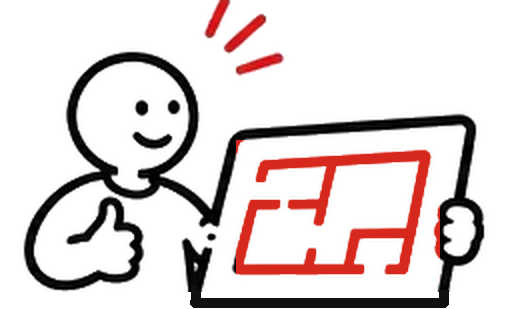
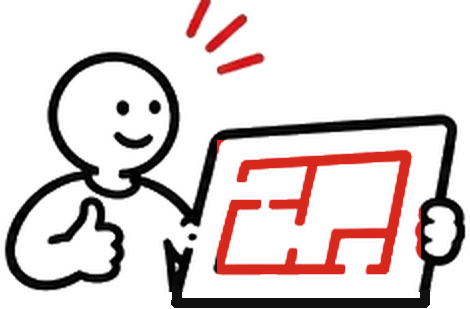
Draft: figures flush left, equal heads, common baseline
Claude-Session: https://claude.ai/code/session_01EwRfVRwqpTJVtze869hkia

diff --git a/services/apartment-design/index.html b/services/apartment-design/index.html
@@ -55,9 +55,9 @@
   <div class="section-head"><p class="label"><span>Что вы получаете</span><span class="muted">Квартиры и апартаменты</span></p></div>
   <div class="grid">
     <h2 class="s-12">Идея, картинка или инструкция</h2>
-    <div class="s-4 gains pkg-card"><figure class="pkg-ill"><img src="../../assets/img/pkg/fig-idea.png" alt="" width="199" height="121" style="width:199px"></figure><h3 class="pkg-name">Идея</h3><p class="pkg-subt">Рисуем, как вы будете жить</p><p class="label pkg-meta">Простой · от 9,6 $/м² · от 1 до 2 недель</p><p class="pkg-count">Чтобы понять, как будет устроено ваше пространство</p><p class="pkg-tag">Минимальный набор</p><ul class="pkg-matrix"><li class="pkg-m"><img src="../../assets/img/pkg/i-plan.svg" alt="" width="34" height="34"><span>Планировка</span></li><li class="pkg-m"><img src="../../assets/img/pkg/i-ai.svg" alt="" width="34" height="34"><span>AI-эскиз</span></li><li class="pkg-m off"><img src="../../assets/img/pkg/i-3d.svg" alt="" width="34" height="34"><span>3D</span></li><li class="pkg-m off"><img src="../../assets/img/pkg/i-elev.svg" alt="" width="34" height="34"><span>Развёртки</span></li><li class="pkg-m off"><img src="../../assets/img/pkg/i-finish.svg" alt="" width="34" height="34"><span>Отделка</span></li><li class="pkg-m off"><img src="../../assets/img/pkg/i-elec.svg" alt="" width="34" height="34"><span>Электрика</span></li><li class="pkg-m off"><img src="../../assets/img/pkg/i-plumb.svg" alt="" width="34" height="34"><span>Сантехника</span></li><li class="pkg-m off"><img src="../../assets/img/pkg/i-furn.svg" alt="" width="34" height="34"><span>Подбор мебели</span></li></ul><ul class="pkg-list"><li>Обмерный план по вашим замерам или плану БТИ</li><li>До 2 вариантов планировочного решения с расстановкой мебели</li><li>AI-эскизы каждого помещения для поиска стиля и атмосферы</li><li>До 3 раундов правок</li></ul><p class="pkg-note muted">Подвинуть шкаф на полметра считается правкой, а не новой планировкой. Шкафы мы двигаем с удовольствием.</p><p class="pkg-btn"><a class="btn" href="../../index.html?pkg=Идея#brief" data-pkg="Идея">Выбрать «Идея» →</a></p></div>
-    <div class="s-4 gains pkg-card gains--featured" data-badge="Популярный"><figure class="pkg-ill"><img src="../../assets/img/pkg/fig-picture.png" alt="" width="231" height="116" style="width:231px"></figure><h3 class="pkg-name">Картинка</h3><p class="pkg-subt">Смотрим, как это будет выглядеть</p><p class="label pkg-meta">Базовый · от 14,7 $/м² · от 2 до 3 недель</p><p class="pkg-count"><b>От 15 листов,</b><br>чтобы увидеть будущий интерьер</p><p class="pkg-tag">Базовый комплект чертежей без инженерии</p><ul class="pkg-matrix"><li class="pkg-m"><img src="../../assets/img/pkg/i-plan.svg" alt="" width="34" height="34"><span>Планировка</span></li><li class="pkg-m"><img src="../../assets/img/pkg/i-ai.svg" alt="" width="34" height="34"><span>AI-эскиз</span></li><li class="pkg-m"><img src="../../assets/img/pkg/i-3d.svg" alt="" width="34" height="34"><span>3D</span></li><li class="pkg-m"><img src="../../assets/img/pkg/i-elev.svg" alt="" width="34" height="34"><span>Развёртки</span></li><li class="pkg-m off"><img src="../../assets/img/pkg/i-finish.svg" alt="" width="34" height="34"><span>Отделка</span></li><li class="pkg-m off"><img src="../../assets/img/pkg/i-elec.svg" alt="" width="34" height="34"><span>Электрика</span></li><li class="pkg-m off"><img src="../../assets/img/pkg/i-plumb.svg" alt="" width="34" height="34"><span>Сантехника</span></li><li class="pkg-m off"><img src="../../assets/img/pkg/i-furn.svg" alt="" width="34" height="34"><span>Подбор мебели</span></li></ul><ul class="pkg-list"><li>Всё, что входит в «Идею»</li><li>До 3 вариантов планировочного решения с расстановкой мебели</li><li>1 концепция интерьера</li><li>3D-визуализации всех помещений, по 2 ракурса на каждое</li><li>Развёртки стен без инженерных схем</li><li>До 3 раундов правок</li></ul><p class="pkg-btn"><a class="btn btn--signal" href="../../index.html?pkg=Картинка#brief" data-pkg="Картинка">Выбрать «Картинка» →</a></p></div>
-    <div class="s-4 gains pkg-card"><figure class="pkg-ill"><img src="../../assets/img/pkg/fig-instructions.png" alt="" width="299" height="113" style="width:299px"></figure><h3 class="pkg-name">Инструкция</h3><p class="pkg-subt">Передаём всё необходимое для реализации</p><p class="label pkg-meta">Полный · от 19,3 $/м² · от 4 до 5 недель</p><p class="pkg-count"><b>От 27 листов,</b><br>чтобы строить без догадок</p><p class="pkg-tag">Полный комплект документации для реализации</p><ul class="pkg-matrix"><li class="pkg-m"><img src="../../assets/img/pkg/i-plan.svg" alt="" width="34" height="34"><span>Планировка</span></li><li class="pkg-m"><img src="../../assets/img/pkg/i-ai.svg" alt="" width="34" height="34"><span>AI-эскиз</span></li><li class="pkg-m"><img src="../../assets/img/pkg/i-3d.svg" alt="" width="34" height="34"><span>3D</span></li><li class="pkg-m"><img src="../../assets/img/pkg/i-elev.svg" alt="" width="34" height="34"><span>Развёртки</span></li><li class="pkg-m"><img src="../../assets/img/pkg/i-finish.svg" alt="" width="34" height="34"><span>Отделка</span></li><li class="pkg-m"><img src="../../assets/img/pkg/i-elec.svg" alt="" width="34" height="34"><span>Электрика</span></li><li class="pkg-m"><img src="../../assets/img/pkg/i-plumb.svg" alt="" width="34" height="34"><span>Сантехника</span></li><li class="pkg-m"><img src="../../assets/img/pkg/i-furn.svg" alt="" width="34" height="34"><span>Подбор мебели</span></li></ul><ul class="pkg-list"><li>Всё, что входит в «Картинку»</li><li>До 5 вариантов планировочного решения</li><li>2 концепции интерьера</li><li>По 3 или 4 ракурса каждого помещения и панорамы 360°</li><li>Развёртки стен с привязками инженерии</li><li>Отделка, электрика, тёплый пол и сантехника</li><li>Ведомости дверных проёмов и лючков, разрез</li><li>Подбор материалов и мебели со спецификацией</li><li>До 5 раундов правок</li></ul><p class="pkg-note muted">Хотите больше вариантов? Сделаю их дополнительно, стоимость обсудим.</p><p class="pkg-btn"><a class="btn" href="../../index.html?pkg=Инструкция#brief" data-pkg="Инструкция">Выбрать «Инструкция» →</a></p></div>
+    <div class="s-4 gains pkg-card"><figure class="pkg-ill"><img src="../../assets/img/pkg/fig-idea.png" alt="" width="183" height="121" style="width:183px"></figure><h3 class="pkg-name">Идея</h3><p class="pkg-subt">Рисуем, как вы будете жить</p><p class="label pkg-meta">Простой · от 9,6 $/м² · от 1 до 2 недель</p><p class="pkg-count">Чтобы понять, как будет устроено ваше пространство</p><p class="pkg-tag">Минимальный набор</p><ul class="pkg-matrix"><li class="pkg-m"><img src="../../assets/img/pkg/i-plan.svg" alt="" width="34" height="34"><span>Планировка</span></li><li class="pkg-m"><img src="../../assets/img/pkg/i-ai.svg" alt="" width="34" height="34"><span>AI-эскиз</span></li><li class="pkg-m off"><img src="../../assets/img/pkg/i-3d.svg" alt="" width="34" height="34"><span>3D</span></li><li class="pkg-m off"><img src="../../assets/img/pkg/i-elev.svg" alt="" width="34" height="34"><span>Развёртки</span></li><li class="pkg-m off"><img src="../../assets/img/pkg/i-finish.svg" alt="" width="34" height="34"><span>Отделка</span></li><li class="pkg-m off"><img src="../../assets/img/pkg/i-elec.svg" alt="" width="34" height="34"><span>Электрика</span></li><li class="pkg-m off"><img src="../../assets/img/pkg/i-plumb.svg" alt="" width="34" height="34"><span>Сантехника</span></li><li class="pkg-m off"><img src="../../assets/img/pkg/i-furn.svg" alt="" width="34" height="34"><span>Подбор мебели</span></li></ul><ul class="pkg-list"><li>Обмерный план по вашим замерам или плану БТИ</li><li>До 2 вариантов планировочного решения с расстановкой мебели</li><li>AI-эскизы каждого помещения для поиска стиля и атмосферы</li><li>До 3 раундов правок</li></ul><p class="pkg-note muted">Подвинуть шкаф на полметра считается правкой, а не новой планировкой. Шкафы мы двигаем с удовольствием.</p><p class="pkg-btn"><a class="btn" href="../../index.html?pkg=Идея#brief" data-pkg="Идея">Выбрать «Идея» →</a></p></div>
+    <div class="s-4 gains pkg-card gains--featured" data-badge="Популярный"><figure class="pkg-ill"><img src="../../assets/img/pkg/fig-picture.png" alt="" width="225" height="116" style="width:225px"></figure><h3 class="pkg-name">Картинка</h3><p class="pkg-subt">Смотрим, как это будет выглядеть</p><p class="label pkg-meta">Базовый · от 14,7 $/м² · от 2 до 3 недель</p><p class="pkg-count"><b>От 15 листов,</b><br>чтобы увидеть будущий интерьер</p><p class="pkg-tag">Базовый комплект чертежей без инженерии</p><ul class="pkg-matrix"><li class="pkg-m"><img src="../../assets/img/pkg/i-plan.svg" alt="" width="34" height="34"><span>Планировка</span></li><li class="pkg-m"><img src="../../assets/img/pkg/i-ai.svg" alt="" width="34" height="34"><span>AI-эскиз</span></li><li class="pkg-m"><img src="../../assets/img/pkg/i-3d.svg" alt="" width="34" height="34"><span>3D</span></li><li class="pkg-m"><img src="../../assets/img/pkg/i-elev.svg" alt="" width="34" height="34"><span>Развёртки</span></li><li class="pkg-m off"><img src="../../assets/img/pkg/i-finish.svg" alt="" width="34" height="34"><span>Отделка</span></li><li class="pkg-m off"><img src="../../assets/img/pkg/i-elec.svg" alt="" width="34" height="34"><span>Электрика</span></li><li class="pkg-m off"><img src="../../assets/img/pkg/i-plumb.svg" alt="" width="34" height="34"><span>Сантехника</span></li><li class="pkg-m off"><img src="../../assets/img/pkg/i-furn.svg" alt="" width="34" height="34"><span>Подбор мебели</span></li></ul><ul class="pkg-list"><li>Всё, что входит в «Идею»</li><li>До 3 вариантов планировочного решения с расстановкой мебели</li><li>1 концепция интерьера</li><li>3D-визуализации всех помещений, по 2 ракурса на каждое</li><li>Развёртки стен без инженерных схем</li><li>До 3 раундов правок</li></ul><p class="pkg-btn"><a class="btn btn--signal" href="../../index.html?pkg=Картинка#brief" data-pkg="Картинка">Выбрать «Картинка» →</a></p></div>
+    <div class="s-4 gains pkg-card"><figure class="pkg-ill"><img src="../../assets/img/pkg/fig-instructions.png" alt="" width="329" height="124" style="width:329px"></figure><h3 class="pkg-name">Инструкция</h3><p class="pkg-subt">Передаём всё необходимое для реализации</p><p class="label pkg-meta">Полный · от 19,3 $/м² · от 4 до 5 недель</p><p class="pkg-count"><b>От 27 листов,</b><br>чтобы строить без догадок</p><p class="pkg-tag">Полный комплект документации для реализации</p><ul class="pkg-matrix"><li class="pkg-m"><img src="../../assets/img/pkg/i-plan.svg" alt="" width="34" height="34"><span>Планировка</span></li><li class="pkg-m"><img src="../../assets/img/pkg/i-ai.svg" alt="" width="34" height="34"><span>AI-эскиз</span></li><li class="pkg-m"><img src="../../assets/img/pkg/i-3d.svg" alt="" width="34" height="34"><span>3D</span></li><li class="pkg-m"><img src="../../assets/img/pkg/i-elev.svg" alt="" width="34" height="34"><span>Развёртки</span></li><li class="pkg-m"><img src="../../assets/img/pkg/i-finish.svg" alt="" width="34" height="34"><span>Отделка</span></li><li class="pkg-m"><img src="../../assets/img/pkg/i-elec.svg" alt="" width="34" height="34"><span>Электрика</span></li><li class="pkg-m"><img src="../../assets/img/pkg/i-plumb.svg" alt="" width="34" height="34"><span>Сантехника</span></li><li class="pkg-m"><img src="../../assets/img/pkg/i-furn.svg" alt="" width="34" height="34"><span>Подбор мебели</span></li></ul><ul class="pkg-list"><li>Всё, что входит в «Картинку»</li><li>До 5 вариантов планировочного решения</li><li>2 концепции интерьера</li><li>По 3 или 4 ракурса каждого помещения и панорамы 360°</li><li>Развёртки стен с привязками инженерии</li><li>Отделка, электрика, тёплый пол и сантехника</li><li>Ведомости дверных проёмов и лючков, разрез</li><li>Подбор материалов и мебели со спецификацией</li><li>До 5 раундов правок</li></ul><p class="pkg-note muted">Хотите больше вариантов? Сделаю их дополнительно, стоимость обсудим.</p><p class="pkg-btn"><a class="btn" href="../../index.html?pkg=Инструкция#brief" data-pkg="Инструкция">Выбрать «Инструкция» →</a></p></div>
     <p class="s-12 muted">Цена ниже рынка, потому что рутину считает BIM-модель, а не человек. Все листы собираются из одной модели, поэтому размеры сходятся.</p>
     <div class="s-12 pkg-wrap"><p class="label">Что входит в каждый пакет</p><table class="pkg">
 <thead><tr><th>Блок работ</th><th class="c">Идея<small>простой</small></th><th class="c f">Картинка<small>базовый</small></th><th class="c">Инструкция<small>полный</small></th></tr></thead>

diff --git a/en/services/apartment-design/index.html b/en/services/apartment-design/index.html
@@ -55,9 +55,9 @@
   <div class="section-head"><p class="label"><span>What you get</span><span class="muted">Apartments</span></p></div>
   <div class="grid">
     <h2 class="s-12">Idea, Picture or Instructions</h2>
-    <div class="s-4 gains pkg-card"><figure class="pkg-ill"><img src="../../../assets/img/pkg/fig-idea.png" alt="" width="199" height="121" style="width:199px"></figure><h3 class="pkg-name">Idea</h3><p class="pkg-subt">We sketch how you will live</p><p class="label pkg-meta">Basic · from $9.6/m² · 1 to 2 weeks</p><p class="pkg-count">To understand how your space will work</p><p class="pkg-tag">Minimal set</p><ul class="pkg-matrix"><li class="pkg-m"><img src="../../../assets/img/pkg/i-plan.svg" alt="" width="34" height="34"><span>Layout</span></li><li class="pkg-m"><img src="../../../assets/img/pkg/i-ai.svg" alt="" width="34" height="34"><span>AI sketch</span></li><li class="pkg-m off"><img src="../../../assets/img/pkg/i-3d.svg" alt="" width="34" height="34"><span>3D</span></li><li class="pkg-m off"><img src="../../../assets/img/pkg/i-elev.svg" alt="" width="34" height="34"><span>Elevations</span></li><li class="pkg-m off"><img src="../../../assets/img/pkg/i-finish.svg" alt="" width="34" height="34"><span>Finishes</span></li><li class="pkg-m off"><img src="../../../assets/img/pkg/i-elec.svg" alt="" width="34" height="34"><span>Electrical</span></li><li class="pkg-m off"><img src="../../../assets/img/pkg/i-plumb.svg" alt="" width="34" height="34"><span>Plumbing</span></li><li class="pkg-m off"><img src="../../../assets/img/pkg/i-furn.svg" alt="" width="34" height="34"><span>Furniture</span></li></ul><ul class="pkg-list"><li>Measured plan from your measurements or the BTI plan</li><li>Up to 2 layout options with furniture arrangement</li><li>AI sketches of every room to find the style and mood</li><li>Up to 3 rounds of revisions</li></ul><p class="pkg-note muted">Moving a wardrobe half a metre is a revision, not a new layout. We are always happy to move wardrobes.</p><p class="pkg-btn"><a class="btn" href="../../index.html?pkg=Idea#brief" data-pkg="Idea">Choose Idea →</a></p></div>
-    <div class="s-4 gains pkg-card gains--featured" data-badge="Popular"><figure class="pkg-ill"><img src="../../../assets/img/pkg/fig-picture.png" alt="" width="231" height="116" style="width:231px"></figure><h3 class="pkg-name">Picture</h3><p class="pkg-subt">We see how it will look</p><p class="label pkg-meta">Standard · from $14.7/m² · 2 to 3 weeks</p><p class="pkg-count"><b>From 15 sheets,</b><br>to see your future interior</p><p class="pkg-tag">Basic drawing set without engineering</p><ul class="pkg-matrix"><li class="pkg-m"><img src="../../../assets/img/pkg/i-plan.svg" alt="" width="34" height="34"><span>Layout</span></li><li class="pkg-m"><img src="../../../assets/img/pkg/i-ai.svg" alt="" width="34" height="34"><span>AI sketch</span></li><li class="pkg-m"><img src="../../../assets/img/pkg/i-3d.svg" alt="" width="34" height="34"><span>3D</span></li><li class="pkg-m"><img src="../../../assets/img/pkg/i-elev.svg" alt="" width="34" height="34"><span>Elevations</span></li><li class="pkg-m off"><img src="../../../assets/img/pkg/i-finish.svg" alt="" width="34" height="34"><span>Finishes</span></li><li class="pkg-m off"><img src="../../../assets/img/pkg/i-elec.svg" alt="" width="34" height="34"><span>Electrical</span></li><li class="pkg-m off"><img src="../../../assets/img/pkg/i-plumb.svg" alt="" width="34" height="34"><span>Plumbing</span></li><li class="pkg-m off"><img src="../../../assets/img/pkg/i-furn.svg" alt="" width="34" height="34"><span>Furniture</span></li></ul><ul class="pkg-list"><li>Everything in Idea</li><li>Up to 3 layout options with furniture arrangement</li><li>1 interior concept</li><li>3D visualisations of every room, 2 views each</li><li>Wall elevations without engineering</li><li>Up to 3 rounds of revisions</li></ul><p class="pkg-btn"><a class="btn btn--signal" href="../../index.html?pkg=Picture#brief" data-pkg="Picture">Choose Picture →</a></p></div>
-    <div class="s-4 gains pkg-card"><figure class="pkg-ill"><img src="../../../assets/img/pkg/fig-instructions.png" alt="" width="299" height="113" style="width:299px"></figure><h3 class="pkg-name">Instructions</h3><p class="pkg-subt">We hand over everything needed to build</p><p class="label pkg-meta">Full · from $19.3/m² · 4 to 5 weeks</p><p class="pkg-count"><b>From 27 sheets,</b><br>to build without guesswork</p><p class="pkg-tag">Complete documentation for the build</p><ul class="pkg-matrix"><li class="pkg-m"><img src="../../../assets/img/pkg/i-plan.svg" alt="" width="34" height="34"><span>Layout</span></li><li class="pkg-m"><img src="../../../assets/img/pkg/i-ai.svg" alt="" width="34" height="34"><span>AI sketch</span></li><li class="pkg-m"><img src="../../../assets/img/pkg/i-3d.svg" alt="" width="34" height="34"><span>3D</span></li><li class="pkg-m"><img src="../../../assets/img/pkg/i-elev.svg" alt="" width="34" height="34"><span>Elevations</span></li><li class="pkg-m"><img src="../../../assets/img/pkg/i-finish.svg" alt="" width="34" height="34"><span>Finishes</span></li><li class="pkg-m"><img src="../../../assets/img/pkg/i-elec.svg" alt="" width="34" height="34"><span>Electrical</span></li><li class="pkg-m"><img src="../../../assets/img/pkg/i-plumb.svg" alt="" width="34" height="34"><span>Plumbing</span></li><li class="pkg-m"><img src="../../../assets/img/pkg/i-furn.svg" alt="" width="34" height="34"><span>Furniture</span></li></ul><ul class="pkg-list"><li>Everything in Picture</li><li>Up to 5 layout options</li><li>2 interior concepts</li><li>3 or 4 views of every room and 360° panoramas</li><li>Wall elevations with engineering setting-out</li><li>Finishes, electrical, underfloor heating and plumbing</li><li>Door opening and access hatch schedules, section</li><li>Selection of materials and furniture with a specification</li><li>Up to 5 rounds of revisions</li></ul><p class="pkg-note muted">Need more options? I will make them separately, we will agree on the cost.</p><p class="pkg-btn"><a class="btn" href="../../index.html?pkg=Instructions#brief" data-pkg="Instructions">Choose Instructions →</a></p></div>
+    <div class="s-4 gains pkg-card"><figure class="pkg-ill"><img src="../../../assets/img/pkg/fig-idea.png" alt="" width="183" height="121" style="width:183px"></figure><h3 class="pkg-name">Idea</h3><p class="pkg-subt">We sketch how you will live</p><p class="label pkg-meta">Basic · from $9.6/m² · 1 to 2 weeks</p><p class="pkg-count">To understand how your space will work</p><p class="pkg-tag">Minimal set</p><ul class="pkg-matrix"><li class="pkg-m"><img src="../../../assets/img/pkg/i-plan.svg" alt="" width="34" height="34"><span>Layout</span></li><li class="pkg-m"><img src="../../../assets/img/pkg/i-ai.svg" alt="" width="34" height="34"><span>AI sketch</span></li><li class="pkg-m off"><img src="../../../assets/img/pkg/i-3d.svg" alt="" width="34" height="34"><span>3D</span></li><li class="pkg-m off"><img src="../../../assets/img/pkg/i-elev.svg" alt="" width="34" height="34"><span>Elevations</span></li><li class="pkg-m off"><img src="../../../assets/img/pkg/i-finish.svg" alt="" width="34" height="34"><span>Finishes</span></li><li class="pkg-m off"><img src="../../../assets/img/pkg/i-elec.svg" alt="" width="34" height="34"><span>Electrical</span></li><li class="pkg-m off"><img src="../../../assets/img/pkg/i-plumb.svg" alt="" width="34" height="34"><span>Plumbing</span></li><li class="pkg-m off"><img src="../../../assets/img/pkg/i-furn.svg" alt="" width="34" height="34"><span>Furniture</span></li></ul><ul class="pkg-list"><li>Measured plan from your measurements or the BTI plan</li><li>Up to 2 layout options with furniture arrangement</li><li>AI sketches of every room to find the style and mood</li><li>Up to 3 rounds of revisions</li></ul><p class="pkg-note muted">Moving a wardrobe half a metre is a revision, not a new layout. We are always happy to move wardrobes.</p><p class="pkg-btn"><a class="btn" href="../../index.html?pkg=Idea#brief" data-pkg="Idea">Choose Idea →</a></p></div>
+    <div class="s-4 gains pkg-card gains--featured" data-badge="Popular"><figure class="pkg-ill"><img src="../../../assets/img/pkg/fig-picture.png" alt="" width="225" height="116" style="width:225px"></figure><h3 class="pkg-name">Picture</h3><p class="pkg-subt">We see how it will look</p><p class="label pkg-meta">Standard · from $14.7/m² · 2 to 3 weeks</p><p class="pkg-count"><b>From 15 sheets,</b><br>to see your future interior</p><p class="pkg-tag">Basic drawing set without engineering</p><ul class="pkg-matrix"><li class="pkg-m"><img src="../../../assets/img/pkg/i-plan.svg" alt="" width="34" height="34"><span>Layout</span></li><li class="pkg-m"><img src="../../../assets/img/pkg/i-ai.svg" alt="" width="34" height="34"><span>AI sketch</span></li><li class="pkg-m"><img src="../../../assets/img/pkg/i-3d.svg" alt="" width="34" height="34"><span>3D</span></li><li class="pkg-m"><img src="../../../assets/img/pkg/i-elev.svg" alt="" width="34" height="34"><span>Elevations</span></li><li class="pkg-m off"><img src="../../../assets/img/pkg/i-finish.svg" alt="" width="34" height="34"><span>Finishes</span></li><li class="pkg-m off"><img src="../../../assets/img/pkg/i-elec.svg" alt="" width="34" height="34"><span>Electrical</span></li><li class="pkg-m off"><img src="../../../assets/img/pkg/i-plumb.svg" alt="" width="34" height="34"><span>Plumbing</span></li><li class="pkg-m off"><img src="../../../assets/img/pkg/i-furn.svg" alt="" width="34" height="34"><span>Furniture</span></li></ul><ul class="pkg-list"><li>Everything in Idea</li><li>Up to 3 layout options with furniture arrangement</li><li>1 interior concept</li><li>3D visualisations of every room, 2 views each</li><li>Wall elevations without engineering</li><li>Up to 3 rounds of revisions</li></ul><p class="pkg-btn"><a class="btn btn--signal" href="../../index.html?pkg=Picture#brief" data-pkg="Picture">Choose Picture →</a></p></div>
+    <div class="s-4 gains pkg-card"><figure class="pkg-ill"><img src="../../../assets/img/pkg/fig-instructions.png" alt="" width="329" height="124" style="width:329px"></figure><h3 class="pkg-name">Instructions</h3><p class="pkg-subt">We hand over everything needed to build</p><p class="label pkg-meta">Full · from $19.3/m² · 4 to 5 weeks</p><p class="pkg-count"><b>From 27 sheets,</b><br>to build without guesswork</p><p class="pkg-tag">Complete documentation for the build</p><ul class="pkg-matrix"><li class="pkg-m"><img src="../../../assets/img/pkg/i-plan.svg" alt="" width="34" height="34"><span>Layout</span></li><li class="pkg-m"><img src="../../../assets/img/pkg/i-ai.svg" alt="" width="34" height="34"><span>AI sketch</span></li><li class="pkg-m"><img src="../../../assets/img/pkg/i-3d.svg" alt="" width="34" height="34"><span>3D</span></li><li class="pkg-m"><img src="../../../assets/img/pkg/i-elev.svg" alt="" width="34" height="34"><span>Elevations</span></li><li class="pkg-m"><img src="../../../assets/img/pkg/i-finish.svg" alt="" width="34" height="34"><span>Finishes</span></li><li class="pkg-m"><img src="../../../assets/img/pkg/i-elec.svg" alt="" width="34" height="34"><span>Electrical</span></li><li class="pkg-m"><img src="../../../assets/img/pkg/i-plumb.svg" alt="" width="34" height="34"><span>Plumbing</span></li><li class="pkg-m"><img src="../../../assets/img/pkg/i-furn.svg" alt="" width="34" height="34"><span>Furniture</span></li></ul><ul class="pkg-list"><li>Everything in Picture</li><li>Up to 5 layout options</li><li>2 interior concepts</li><li>3 or 4 views of every room and 360° panoramas</li><li>Wall elevations with engineering setting-out</li><li>Finishes, electrical, underfloor heating and plumbing</li><li>Door opening and access hatch schedules, section</li><li>Selection of materials and furniture with a specification</li><li>Up to 5 rounds of revisions</li></ul><p class="pkg-note muted">Need more options? I will make them separately, we will agree on the cost.</p><p class="pkg-btn"><a class="btn" href="../../index.html?pkg=Instructions#brief" data-pkg="Instructions">Choose Instructions →</a></p></div>
     <p class="s-12 muted">The price is below market because the routine is calculated by the BIM model, not by hand. All sheets come from one model, so dimensions always match.</p>
     <div class="s-12 pkg-wrap"><p class="label">What each package includes</p><table class="pkg">
 <thead><tr><th>Scope</th><th class="c">Idea<small>basic</small></th><th class="c f">Picture<small>standard</small></th><th class="c">Instructions<small>full</small></th></tr></thead>
